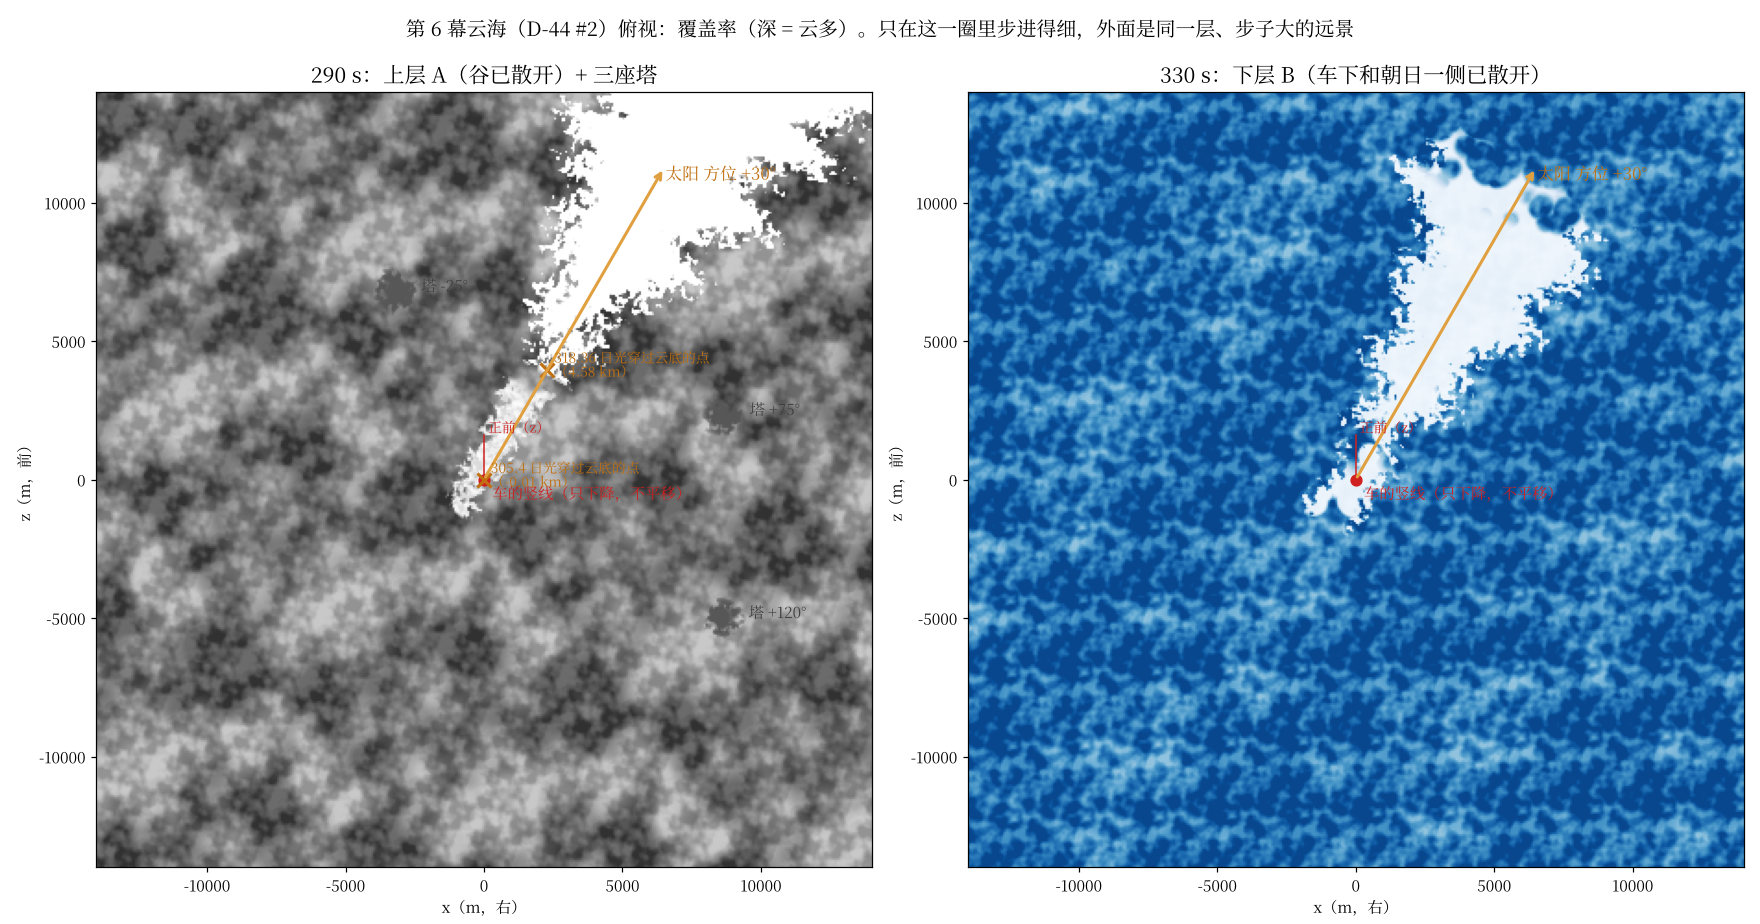
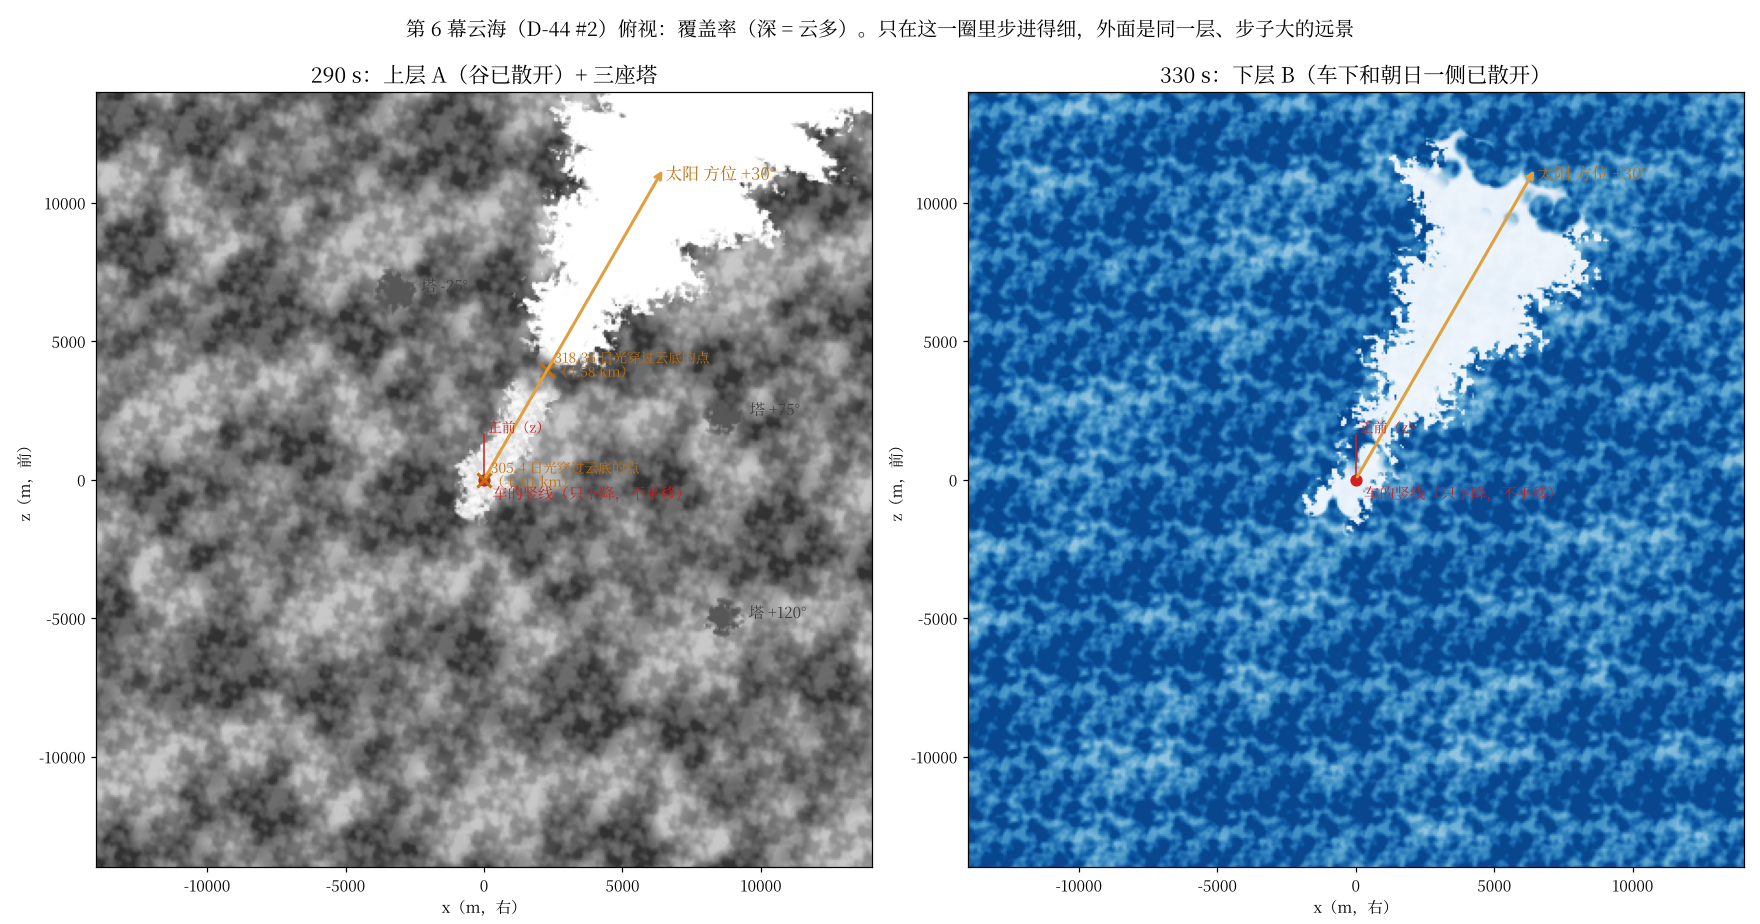
D-44 #2 (WIP): valley centred on the bus (basin), sun hidden 305 / back 318.0-318.8 by the volume, design board doc draft, board composer
Claude-Session: https://claude.ai/code/session_013vgQ9h6QhaATkngugnzkS6

diff --git a/Act06_Dawn/Source/act06_vol_board.py b/Act06_Dawn/Source/act06_vol_board.py
@@ -1,0 +1,82 @@
+# -*- coding: utf-8 -*-
+"""设计板（D-44 #2）：六个时刻从主座位往前看 + 三张补充机位，拼成一张，带说明。
+输入：act06_vol.py 渲好的帧（--src，默认 /tmp/lb/a6board）。-> Docs~/design_v3/frames/*.png、board.png、board.json"""
+import os
+import sys
+import json
+import shutil
+from PIL import Image, ImageDraw, ImageFont
+
+HERE = os.path.dirname(os.path.abspath(__file__))
+KIT = os.path.normpath(os.path.join(HERE, '..'))
+REPO = os.path.normpath(os.path.join(KIT, '..'))
+OUT = os.path.join(KIT, 'Docs~', 'design_v3')
+FONT = os.path.join(REPO, 'Fonts', 'Originals~', 'SourceHanSerifCN-Regular.otf')
+
+MAIN = [
+    ('hero', 251.6, '251.6 F0：黑里第一声号角（这一帧实际还是黑；画的是 266.3 天亮就位后同一位置的样子）。云原在下方 470 m，一直铺到地平线；云塔 −25°'),
+    ('hero', 282.0, '282 F1：长笛鸟鸣。前下方朝太阳的谷开始散开（谷里的云团被风吹散，不是墙升起来）；谷外云原照旧'),
+    ('hero', 305.4, '305.4 出云底：太阳被谷尽头的云墙挡住（303 起变暗、305 挡尽）；下层 B 开始散开，海第一次露出来'),
+    ('hero', 318.4, '318.4 F1b1：太阳从上层朝日那个湾的边下面出来（318.0 → 318.8）；B 层朝日一侧已散开，海上铺出日光'),
+    ('hero', 340.0, '340 海镜：在 B 层之下（离海 270 m），头顶是 B 层的底和它的空隙，太阳低低地从湾里照过来'),
+    ('hero', 360.0, '360：离海 3 m，镜子填满下半个视野；B 层的底在 650 m 之上'),
+]
+EXTRA = [
+    ('door_d12', 300.0, '补 300 车门：在谷里，朝太阳看，谷的两壁是一团一团的，谷里漂着稀的云团'),
+    ('hero_up60', 310.0, '补 310 抬头 60°：上层的底从下面看，是起伏、有空隙的云底，不是长方形的布（截图 02 的问题）'),
+    ('hero_down', 330.0, '补 330 往下：刚穿过 B 层，下面的空隙一直开到海面'),
+]
+
+
+def font(px):
+    return ImageFont.truetype(FONT, px)
+
+
+def tile(src, cam, t, caption, W=640):
+    p = os.path.join(src, f'{cam}_t{t:.1f}.png')
+    j = os.path.join(src, f'{cam}_t{t:.1f}.json')
+    im = Image.open(p).convert('RGB')
+    im = im.resize((W, int(im.height * W / im.width)))
+    m = json.load(open(j))
+    cap = Image.new('RGB', (W, 64), (24, 26, 30))
+    d = ImageDraw.Draw(cap)
+    words, line, lines = caption, '', []
+    for ch in words:
+        if d.textlength(line + ch, font=font(15)) > W - 16:
+            lines.append(line)
+            line = ''
+        line += ch
+    lines.append(line)
+    for k, ln in enumerate(lines[:3]):
+        d.text((8, 4 + 19 * k), ln, fill=(230, 230, 230), font=font(15))
+    info = f"APL {m['APL']}  日光透过 {m['sun_visible']}  海 {m['sea_px'] * 100:.1f} %  紫 {m['purple_D21'] * 100:.2f} %"
+    out = Image.new('RGB', (W, im.height + 64 + 22), (24, 26, 30))
+    out.paste(im, (0, 0))
+    out.paste(cap, (0, im.height))
+    ImageDraw.Draw(out).text((8, im.height + 64), info, fill=(170, 190, 210), font=font(14))
+    return out, m
+
+
+def main():
+    src = sys.argv[1] if len(sys.argv) > 1 else '/tmp/lb/a6board'
+    os.makedirs(os.path.join(OUT, 'frames'), exist_ok=True)
+    tiles, meta = [], {}
+    for cam, t, cap in MAIN + EXTRA:
+        tl, m = tile(src, cam, t, cap)
+        tiles.append(tl)
+        meta[f'{cam}_{t:.1f}'] = m
+        shutil.copy(os.path.join(src, f'{cam}_t{t:.1f}.png'), os.path.join(OUT, 'frames', f'{cam}_t{t:.1f}.png'))
+    W, H = tiles[0].size
+    head = 56
+    board = Image.new('RGB', (W * 3, head + H * 3), (16, 18, 22))
+    ImageDraw.Draw(board).text((12, 10), '第 6 幕云海重做（D-44 #2）设计板：体积云，主座位 (0.55, 1.70, 2.05) 看出去。上两行 = 六个时刻（正前），'
+                               '第三行 = 补充机位。numpy 参考渲染，不是 Unity。', fill=(240, 240, 240), font=font(19))
+    for i, tl in enumerate(tiles):
+        board.paste(tl, ((i % 3) * W, head + (i // 3) * H))
+    board.save(os.path.join(OUT, 'board.png'))
+    json.dump(meta, open(os.path.join(OUT, 'board.json'), 'w'), indent=1, ensure_ascii=False)
+    print('ok', board.size)
+
+
+if __name__ == '__main__':
+    main()

diff --git a/Act06_Dawn/Source/act06_vol.py b/Act06_Dawn/Source/act06_vol.py
@@ -47,9 +47,9 @@ F1 = LAYOUT['labels']['F1']
 # (the sun's timing: hidden behind the valley's end wall from ~300.6, back under the bay's edge at 318.36).
 GEO = dict(
     A=dict(y0=-1134.0, y1=-533.0, base=0.66,
-           valley=dict(a=(-1400.0, 4200.0), hw=(650.0, 800.0), c_off=-300.0, warp=320.0, soft=260.0, inside=0.14, end_warp=220.0,
+           valley=dict(a=(-1400.0, 4200.0), hw=(800.0, 900.0), c_off=0.0, warp=220.0, basin=400.0, soft=260.0, inside=0.14, end_warp=220.0,
                        open=[F1, F1 + 6.0]),
-           bay=dict(a=(4580.0, 23000.0), hw=(700.0, 6500.0), c_off=0.0, warp=800.0, soft=300.0)),
+           bay=dict(a=(5310.0, 23000.0), hw=(1500.0, 6500.0), c_off=0.0, warp=550.0, soft=700.0)),
     B=dict(y0=-1950.0, y1=-1700.0, base=0.88, far_r=12000.0, open=[305.4, 325.0],
            column=dict(a=(-1300.0, 1300.0), hw=(1100.0, 1100.0), c_off=0.0, warp=380.0, soft=300.0, end_warp=500.0),
            bay=dict(a=(1500.0, 12500.0), hw=(900.0, 3600.0), c_off=0.0, warp=650.0, soft=350.0, end_warp=900.0)),
@@ -83,6 +83,7 @@ class Act06Scene:
             a0, a1 = L['a']
             u = np.clip((a - a0) / (a1 - a0), 0, 1)
             hw = (L['hw'][0] + (L['hw'][1] - L['hw'][0]) * u) * (0.7 + 0.6 * n2(a, np.full_like(a, 7.0 * seed), 3000.0, 2, seed))
+            hw = hw + L.get('basin', 0.0) * ss(900.0, 0.0, np.abs(a))         # wider round the bus column (walls ~500 m off, bible)
             mid = L['c_off'] + 0.5 * L['warp'] * 2 * (n2(a, np.full_like(a, 3.0 * seed), 6000.0, 0, seed + 5.0) - 0.5)
             qw = q + L['warp'] * 2 * (n2(x, z, 1400.0, 0, seed + 11.0) - 0.5)
             aw = a + L.get('end_warp', 0.0) * 2 * (n2(x, z, 2000.0, 2, seed + 17.0) - 0.5)

diff --git a/Act06_Dawn/Docs~/design_v3/设计板_v3.md b/Act06_Dawn/Docs~/design_v3/设计板_v3.md
@@ -1,0 +1,110 @@
+# 第 6 幕云海重做 · 设计板（D-44 #2）
+
+**只是设计板。总导演看过再动手写 shader / 驱动。** 这里的画面是 numpy 的参考光线步进（`Clouds_v2/Volume/Source/vol_ref.py` + `Act06_Dawn/Source/act06_vol.py`）出的，不是 Unity，没在 Unity 里跑过。验收按 D-44：要在 Unity 里动态看过，`act06_test` 改成能录一段序列。
+
+- `board.png`：六个时刻 + 三张补充机位；每张的数在 `board.json`。
+- `plan.png`：俯视。
+- `section.png`：沿太阳方向的剖面。
+- `frames/`：单帧。
+
+## 1. 为什么重做
+
+小楠在 Unity 里看过（截图在 `FromLocal/visual_feedback/20261025-0206/`）：
+- 01：晨云像一块实体，也不流动；
+- 02：从下面看，云峡底面像一块长方形的布。
+
+原因在 `Lanbai_CloudPlain`：它是不透明的高度场，射线第一次碰到就 α = 1；云峡是 1 500 m × 6.2 km 的长方形，切穿整个云原。
+
+## 2. 新的样子：三样东西，车真的穿过去
+
+坐标：以 F0 时主座位所在的竖线为原点，y 以 F0 的眼高为 0。车只下降，不平移（`Act06_Layout.motion` 不变）。太阳方位 +30°、仰角 5.8°。
+
+| 层 | 高度（F0 眼高 = 0） | 是什么 | 空隙 |
+|---|---|---|---|
+| **A 上层云原** | 底 −1134，顶最高 −533（顶随覆盖率高低起伏） | 一团一团的积云连成的云原，一直铺到地平线。近处步子细，远处同一层、步子大 | **谷**：中线大致在车的竖线上（弯来弯去 ±220 m），宽约 1.1–2.3 km，车附近再加宽成一个盆（两壁离车约 0.8 / 1.1 km），从车后 1.4 km 通到朝日 4.2 km，边是弯的、一团一团的。F1 → F1 + 6 s 里谷里的云被风吹散（不是墙升起来），谷里留着稀的云团随风漂，车会穿进一两团再出来。**湾**：朝日方向 5.3 km 外，上层让开一个越往外越宽的湾（宽 3 → 13 km，边也是弯的），23 km 外云原又接上 |
+| **B 下层碎积云** | 底 −1950，顶 −1700（离海 655–905 m） | 薄的一层，305.4 之前是合上的（不露海） | 305.4 → 325 散开两处：车下面一块（直径约 2 km，空隙一直开到海面），朝日一侧一个湾（1.5 → 12.5 km） |
+| **T 云塔** | 从 A 层底长到眼高以上 1.2–1.5 km | 三座：方位 −25°（7.5 km）、+75°（9 km）、+120°（10 km）。顶不封死，噪声刻出一个个头 | — |
+| 海 | −2604.59 | 不变（F2h 落到 y = 1.0） | — |
+
+**太阳的时间**（参考步进里沿日光从眼睛算出的透过率，`plan.png` 和 `section.png` 上的虚线）：
+- 谷里一直看得见太阳；
+- 303 开始被谷尽头的云墙挡（0.57），305 挡尽（0.03）：落在 305.4 出云底上；
+- 318.0 开始从湾的边下面出来，318.2 是 0.29、318.5 是 0.75，318.8 全出：落在 F1b1 318.36 上。
+
+体积的边是软的，日盘露出大约 0.8 s。圣经的“日盘约 2.2 秒露全”照旧由驱动的主光曲线管（主光按这条透过率曲线写，再加 2.2 s 的平滑）。
+
+**和圣经 §6·6 对一下：**
+- “谷底时墙顶仰角 ≤ 50°、天窗里 ≥ 80° 干净的藍”：车竖线两侧的壁在 785 m 和 1 120 m（覆盖率 > 0.35 处，295 s 量）。车在谷底时，两壁顶的仰角约 37° 和 28°，头顶留着 110° 以上的天。离开车竖线 600 m 以外谷会窄到 0.6 km，但那是远处，仰角小。
+- “晨里云原是完整的（除了前下方那道朝太阳的峡口）”：F1 之前谷是合上的，云原完整。
+- “海留到 305.4 才第一次出现”：B 层在 305.4 之前合上（覆盖率 ≥ 0.97）。
+- “云塔应答”（266.36 起三根塔的冠依次再亮 +0.7 EV）：照做，每座塔一个增益。
+- 光柱、尘、车厢的金光不变，只是太阳被挡 / 重现的时刻按体积算。
+
+## 3. 六个时刻（主座位往前看）
+
+见 `board.png`，数在 `board.json`：
+
+<!-- FRAMES -->
+
+## 4. 性能预算（圣经 §1.9：RTX 3060 级、约 9 MP @ 90 Hz；世界 ≤ 5.3 ms，其中阴影平行光约 1.0 ms；透明持续 ≤ 4 FSE，车厢玻璃 0.7 FSE）
+
+第 6 幕最重的是 6b / 6c：云墙 + 海 + 云盖同屏约 30 秒（圣经的热点）。
+
+| 项 | 预算 | 怎么做到 |
+|---|---|---|
+| 体积云（A、B、塔一遍画完） | **≤ 1.8 ms** | 只画车窗里的像素（代理在车厢后面，车厢先写深度）。主座位的画面里窗大约占一半。平均 ≤ 20 次 3D 取样 / 像素：近处 ≤ 24 步，进云后步子缩小，透过率 < 0.03 早退；朝光每 2 步 1 个样本，加上用二维覆盖率算的“上面那层有多厚”的阴影项；8 km 外走便宜路径（2D 覆盖率 + 1 次 3D、不做细节，4–6 步）；二维覆盖率是 0 的地方只取 2D |
+| 海（ABOVE，含反射立方图） | ≤ 0.6 ms | 不变 |
+| 天 | ≤ 0.2 ms | 不变 |
+| 阴影平行光（太阳） | 1.0 ms | 圣经的数，不变 |
+| 车厢、光柱、尘 | ≤ 1.5 ms | 车包的数 |
+| **合计（世界）** | **≤ 5.1 ms**（上限 5.3） | |
+| PPv2 | ≤ 1.2 ms | 不变 |
+| 透明（FSE） | 体积云约 0.5（只在窗里）+ 车厢玻璃 0.7 + 光柱 0.3 + 尘 0.1 ≈ **1.6**（上限 4） | 体积云只是一层 |
+| 显存 | 约 10 MB | 128³ RGBA8 带 mip 9.1 MB；一张 1024² 的覆盖率图 1 MB（也可以不用图，shader 里按参数算） |
+| 下载 | 约 3–9 MB | 3D 纹理不能 crunch；要省就压成 BC4 × 3 |
+| Udon | ≈ 0 | 每帧写一个时钟全局量；主光的遮挡按透过率表插值 |
+
+**砍的顺序**（auto-lite，圣经 §1.9）：
+1. 近处步数 24 → 16；
+2. 朝光 1 → 0（只用二维覆盖率的阴影项）；
+3. 细节噪声关；
+4. 远处的便宜路径从 8 km 提前到 4 km。
+
+这些都是估计。要在本地 3060 级的机器上用 `act06_test` 录一段 6b / 6c（285 → 320），开 GPU profiler 量过才算数。
+
+## 5. 阿白的 VolumeCloudDeck
+
+审读在 `Clouds_v2/Volume/README_Volume.md` §1。大意：
+- **留下：** 周期密度、风跟时钟、自阴影、舒适包络、深度截断。
+- **要改：** 只能往下看；没有二维覆盖率（写不出空隙和太阳的时间）；步数固定；值噪声太软（改 Perlin-Worley）；抖动跟着世界游；深度图在 VRChat 里要靠开阴影的实时光；光照和雾写死在门的 include 上；最坏 240 次取样 / 像素。
+
+共用的部分放 `Clouds_v2/Volume/`，门以后也能用。
+
+## 6. D-35 第 6 幕的数（天空 README 说要复核）
+
+用天空 pkg/sky d69940e 的晨预设重渲了现在的第 6 幕（旧的不透明云原，480 px），APL 只差 +0.1，紫没变：
+
+| 帧 | 旧天 → 新天 APL | 紫 |
+|---|---|---|
+| 266.34 正前 | 133.6 → 133.7 | 0 → 0 |
+| 266.34 车门 | 139.4 → 139.5 | 0 → 0 |
+| 305 正前 | 105.8 → 105.9 | 0 → 0 |
+| 318.4 正前 | 89.9 → 89.9 | 0 → 0 |
+| 340 正前 | 110.5 → 110.6 | 0.26 % → 0.26 % |
+
+D-35 的结论不变。云海重做以后这些数都要重量。
+
+## 7. 批准以后的做法
+
+1. 写 `Lanbai/CloudVolume`（共用 shader，§4 的成本目标）和第 6 幕的光照 / 雾 include；覆盖率先用 shader 里按参数算的“湖”（和 `act06_vol.py` 同一套），要省 ALU 再烘成图。
+2. 第 6 幕驱动：写时钟全局量、云塔应答的增益；主光按 §2 的透过率曲线（Udon 里查表）；`CloudPlain` / 云峡 / 薄雾层退役。
+3. 搭建器：密度体（`vol_density.py` → `Texture3D`）、材质、代理；走 D-41 的共用 U# 工具。
+4. `act06_test` 改成能录序列（总工程师的测试工具），录 251 → 363 的主座位、车门、抬头三条，跑 flashcheck，量 GPU 时间。
+5. 参考帧、flashcheck、紫护栏重做一遍，再写“可以终审了”。
+
+## 8. 没做的 / 不确定的
+
+- **画面：** 是 numpy 参考步进，朝光 4 个样本、步子细，比 shader 好看。shader 按 §4 的预算会粗一些，差多少要在 Unity 里看。
+- **车穿进云团：** 车在谷里会穿过一两团稀的云（参考里 290–303 有），在 B 层（约 326–332）也会穿过。进云那一下的亮度变化要按 flashcheck 量；舒适包络（眼前 18–40 m 内密度渐到 0）沿用阿白的。
+- **云的流动：** 风 2–5 m/s，在单帧里看不出来。动态要在 Unity 的序列里看。
+- **配色：** 光照用的是晨卡解出来的颜色 × 两个系数，只在 266 的画面上粗校过（阴影接近 `#8593AA`），没有按圣经的色板逐项解。
